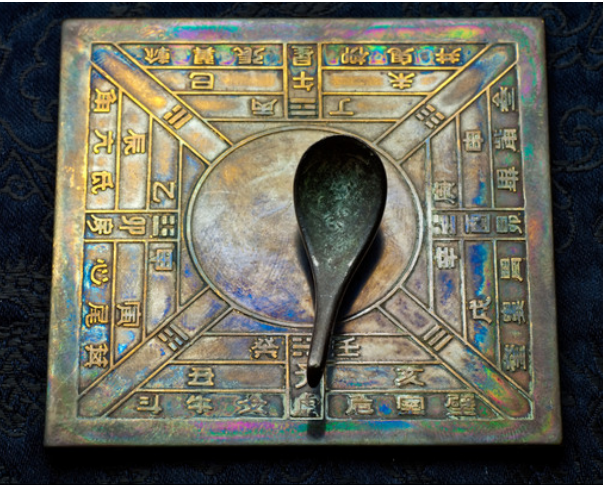
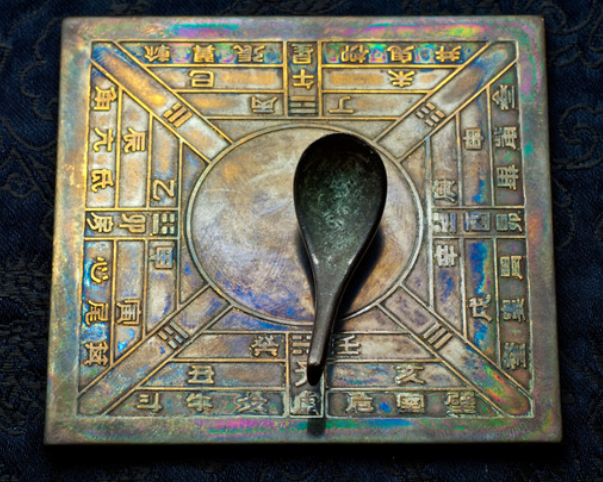
Update article

diff --git a/fraudulent-manipulations-romanticized-ancient-china-rus.html b/fraudulent-manipulations-romanticized-ancient-china-rus.html
@@ -394,7 +394,7 @@
 
             <figure style="margin:1.5rem 0; text-align:center;">
 
-                <img src="https://raw.githubusercontent.com/blackcat568/CyberSecurityAndSocialEngineering/main/pictures/Living-Heritage-Woodblock-Printing-2.jpeg"
+                <img src="https://raw.githubusercontent.com/blackcat568/CyberSecurityAndSocialEngineering/main/pictures/Living-Heritage-Woodblock-Printing-2.png"
                      alt="Ксилография — общий план, показывающий всю вырезанную деревянную матрицу"
                      width="550"
                      loading="lazy"